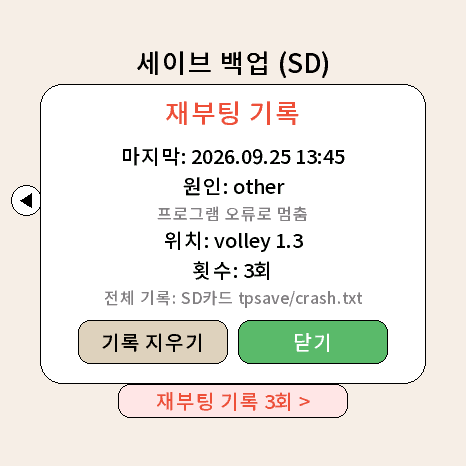
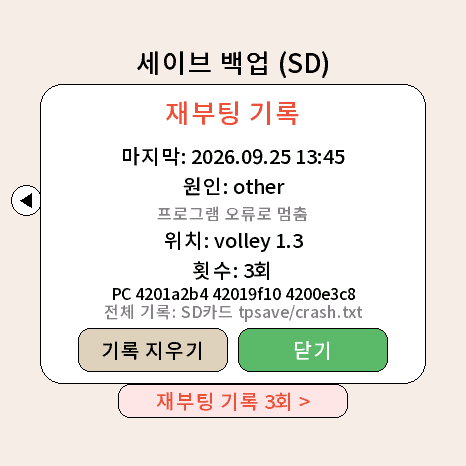
Record the code address of a panic (for the reboot log)
A panic now saves the faulting PC and a few backtrace addresses in RTC
memory (Arduino core's set_arduino_panic_handler). On the next boot they go
to NVS and tpsave/crash.txt and show in the reboot log window, so the crash
can be mapped to a function with the release's ELF.

Claude-Session: https://claude.ai/code/session_01CiwvMdFH9wtdhm1XA9VgMB

Changed region(s): [[0.1502, 0.6009, 0.8412, 0.8112], [0.1502, 0.7511, 0.1803, 0.7811]]

diff --git a/claude-version/TamaPoke/panicrec.cpp b/claude-version/TamaPoke/panicrec.cpp
@@ -1,0 +1,40 @@
+// ko11.9.3: cuando la placa se cae (panic), guarda en la RTC la direccion exacta
+// del codigo y unas cuantas del backtrace (con el gancho del core de Arduino,
+// set_arduino_panic_handler). Al arrancar se pasan a la NVS/SD y se ven en
+// "재부팅 기록"; con el .elf de esa version, addr2line dice la linea.
+#include "panicrec.h"
+#ifdef ESP_PLATFORM
+#include <Arduino.h>
+#include <esp_attr.h>
+
+RTC_NOINIT_ATTR uint32_t gPanicMagic;
+RTC_NOINIT_ATTR uint32_t gPanicN;
+RTC_NOINIT_ATTR uint32_t gPanicPc[PANIC_PCS];
+
+static void IRAM_ATTR onPanic(arduino_panic_info_t *info, void *) {
+  uint32_t n = 0;
+  gPanicPc[n++] = (uint32_t)info->pc;
+  // backtrace[0] suele ser el mismo pc: saltarlo si coincide
+  for (unsigned i = 0; i < info->backtrace_len && n < PANIC_PCS; i++) {
+    if (i == 0 && info->backtrace[0] == (unsigned)info->pc) continue;
+    gPanicPc[n++] = info->backtrace[i];
+  }
+  gPanicN = n;
+  gPanicMagic = PANIC_MAGIC;
+}
+
+void panicRecBegin() { set_arduino_panic_handler(onPanic, nullptr); }
+
+bool panicTake(uint32_t *pcs, uint8_t *n, uint32_t *exc) {
+  if (gPanicMagic != PANIC_MAGIC) return false;
+  gPanicMagic = 0;
+  uint32_t k = gPanicN > PANIC_PCS ? PANIC_PCS : gPanicN;
+  for (uint32_t i = 0; i < k; i++) pcs[i] = gPanicPc[i];
+  *n = (uint8_t)k;
+  *exc = 0;
+  return k > 0;
+}
+#else
+void panicRecBegin() {}
+bool panicTake(uint32_t *, uint8_t *n, uint32_t *) { *n = 0; return false; }
+#endif

diff --git a/claude-version/TamaPoke/test/render/render_main.cpp b/claude-version/TamaPoke/test/render/render_main.cpp
@@ -456,6 +456,7 @@ static void scenes(bool ko, const char *sfx) {
   bakSel = 1; render(); shot("18d_backup_confirm"); bakSel = -1;
   // ko11.9.2: ultimo reinicio inesperado guardado: boton + ventana
   crashCount = 3; crashReason = 4; crashWhere = 0x0103; crashEpoch = gMockEpoch;
+  crashPcN = 3; crashPc[0] = 0x4201a2b4; crashPc[1] = 0x42019f10; crashPc[2] = 0x4200e3c8;
   render(); shot("18f_backup_crash");
   backupTap(BAK_CR_X + 20, BAK_CR_Y + 10); render(); shot("18g_backup_crash_view");
   {  // el texto mas largo de la placa (en el PC resetName dice "other")

diff --git a/claude-version/TamaPoke/panicrec.h b/claude-version/TamaPoke/panicrec.h
@@ -1,0 +1,8 @@
+#pragma once
+// ko11.9.3: direcciones del codigo en el ultimo panic (ver panicrec.cpp)
+#include <stdint.h>
+#define PANIC_PCS 6
+#define PANIC_MAGIC 0x50414E43u
+void panicRecBegin();  // en setup(), lo antes posible
+// true si el reinicio anterior fue un panic grabado (y lo borra)
+bool panicTake(uint32_t *pcs, uint8_t *n, uint32_t *exc);

diff --git a/claude-version/TamaPoke/test/render/stubs.cpp b/claude-version/TamaPoke/test/render/stubs.cpp
@@ -183,3 +183,5 @@ int bakNewest(const BakSlot s[2]) {
 bool bakBackupNow(int16_t, uint16_t, uint32_t, bool) { return true; }
 bool bakRestore(uint8_t) { return false; }
 bool bakCrashLog(const char *) { return false; }
+bool panicTake(uint32_t *, uint8_t *n, uint32_t *) { *n = 0; return false; }
+void panicRecBegin() {}

diff --git a/claude-version/확인_대기.md b/claude-version/확인_대기.md
@@ -39,6 +39,10 @@
 - 사용자: 훈련 끝나면 훈련 선택 화면으로 → 결과 화면이 끝나면(또는 2초 눌러 그만) 훈련 메뉴로 돌아감 (기본 화면 X)
 - 사용자: 배구 난이도 조금 올리기 → 상대 반응 320-46L ms(전 380-56L), 스파이크 12+9L%(전 5+9L), 받기 +10%, 속도 +10
   시뮬(가상 플레이어): 0단계 100%, 1단계 88~96%, 2단계 61~78%, 3단계 36~49%, 4단계 9~18%, 5단계 1~4% 승 (전: 1단계 100%, 3단계 53~72%)
+- 사용자: ko11.9.2 방어 훈련 중 튕기며 재부팅. 기록: 2026.09.28 12:55 CRASH (panic), 위치 defense 2.0 (1회)
+  → 방어 훈련 코드에서는 배열 범위 밖 등 원인 안 보임. 배구(ko11.9.1)에 이어 두 번째 → 훈련 공통/다른 작업(소리·터치) 가능성
+  → 다음 펌부터 **패닉 때 코드 주소(PC + 되돌아갈 주소 5개)** 저장 (Arduino set_arduino_panic_handler → RTC → NVS/crash.txt),
+    재부팅 기록 창에 "PC 4201a2b4 ..." 표시. 릴리스마다 심볼 ELF를 symbols/에 보관 → addr2line으로 함수 찾기
 
 ## ko11.9.2 (2026-09-28 빌드, 기기 확인 대기): 보내주기와 왕관
 - 사용자: 막 부화한 포켓몬을 보내주면 그 계열이 알에서 다시 안 나옴 (끝까지 키운 것과 같은 처리)
